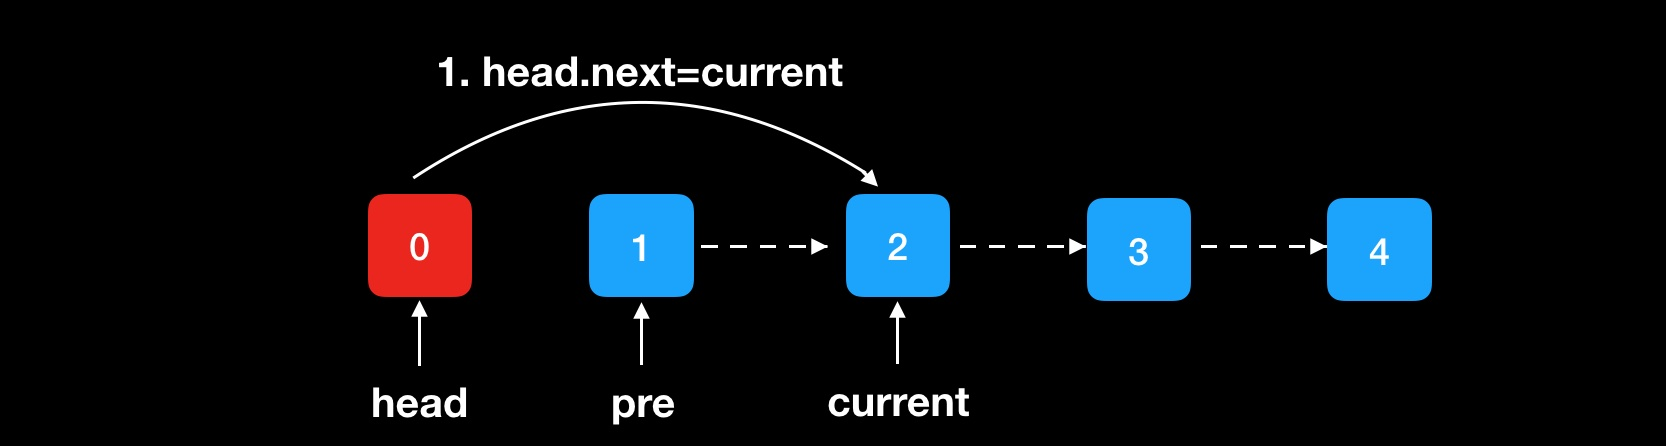
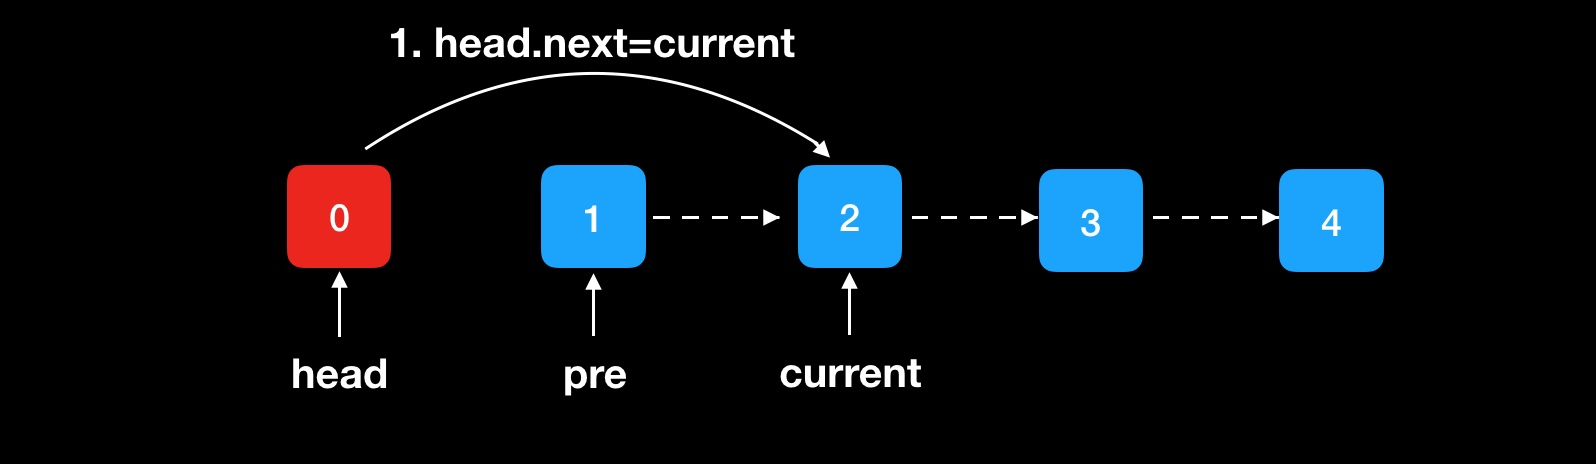
Site updated: 2019-05-08 15:38:28

diff --git a/2019/Reverse Linked List/index.html b/2019/Reverse Linked List/index.html
@@ -133,12 +133,12 @@
 <meta property="og:site_name" content="TizzyT&#39;s Blog">
 <meta property="og:description" content="题目描述（难度简单）Reverse a singly linked list. Example: 12Input: 1-&amp;gt;2-&amp;gt;3-&amp;gt;4-&amp;gt;5-&amp;gt;NULLOutput: 5-&amp;gt;4-&amp;gt;3-&amp;gt;2-&amp;gt;1-&amp;gt;NULL Follow up: A linked list can be reversed either iteratively or re">
 <meta property="og:locale" content="default">
-<meta property="og:image" content="https://arthornye.github.io/images/swappingtwicefinished.jpg">
-<meta property="og:updated_time" content="2019-05-08T07:33:32.645Z">
+<meta property="og:image" content="https://arthornye.github.io/images/reverseone.jpg">
+<meta property="og:updated_time" content="2019-05-08T07:36:27.725Z">
 <meta name="twitter:card" content="summary">
 <meta name="twitter:title" content="Reverse Linked List">
 <meta name="twitter:description" content="题目描述（难度简单）Reverse a singly linked list. Example: 12Input: 1-&amp;gt;2-&amp;gt;3-&amp;gt;4-&amp;gt;5-&amp;gt;NULLOutput: 5-&amp;gt;4-&amp;gt;3-&amp;gt;2-&amp;gt;1-&amp;gt;NULL Follow up: A linked list can be reversed either iteratively or re">
-<meta name="twitter:image" content="https://arthornye.github.io/images/swappingtwicefinished.jpg">
+<meta name="twitter:image" content="https://arthornye.github.io/images/reverseone.jpg">
 
 
 
@@ -445,7 +445,7 @@
 <p>A linked list can be reversed either iteratively or recursively. Could you implement both?</p>
 <h3 id="方法一：一遍遍历"><a href="#方法一：一遍遍历" class="headerlink" title="方法一：一遍遍历"></a>方法一：一遍遍历</h3><p>一遍遍历，定义一个默认0的初始节点head，之后每次扫描，将新节点current加入到head和pre节点之间，pre节点是已经倒转好的子链表的首节点。</p>
 <p><strong>首先定义好head，pre和current三个节点：</strong></p>
-<p><img src="https://arthornye.github.io/images/swappingtwicefinished.jpg" alt="cmd-markdown-logo"></p>
+<p><img src="https://arthornye.github.io/images/reverseone.jpg" alt="cmd-markdown-logo"></p>
 <p>### </p>
 
       
